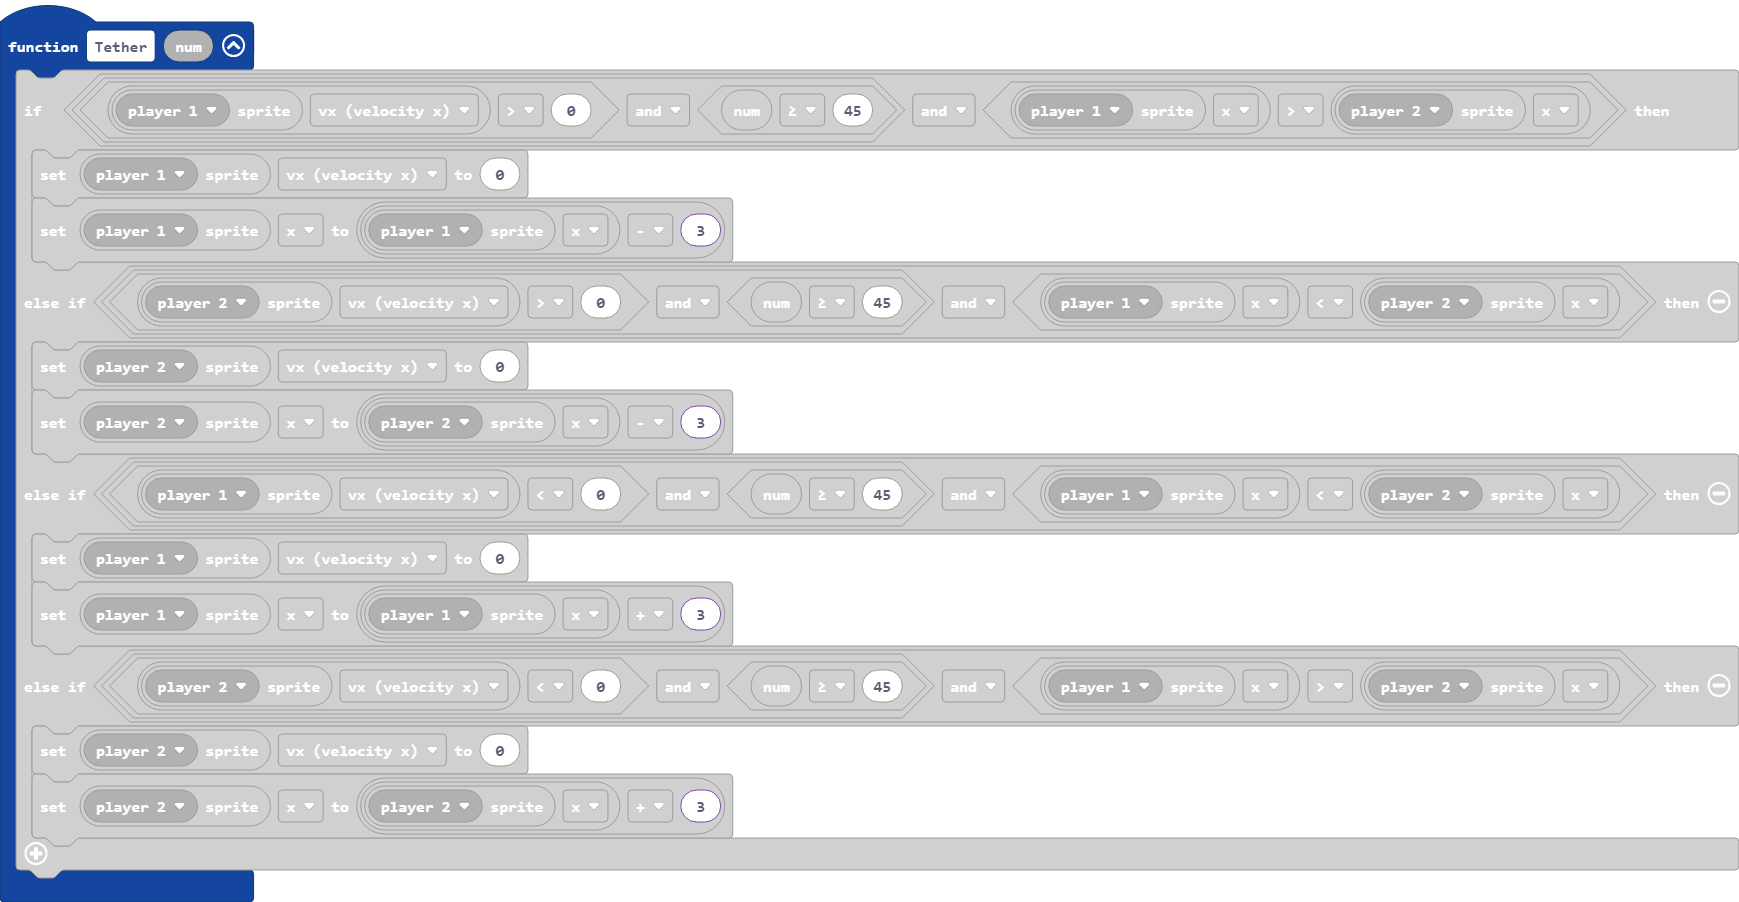
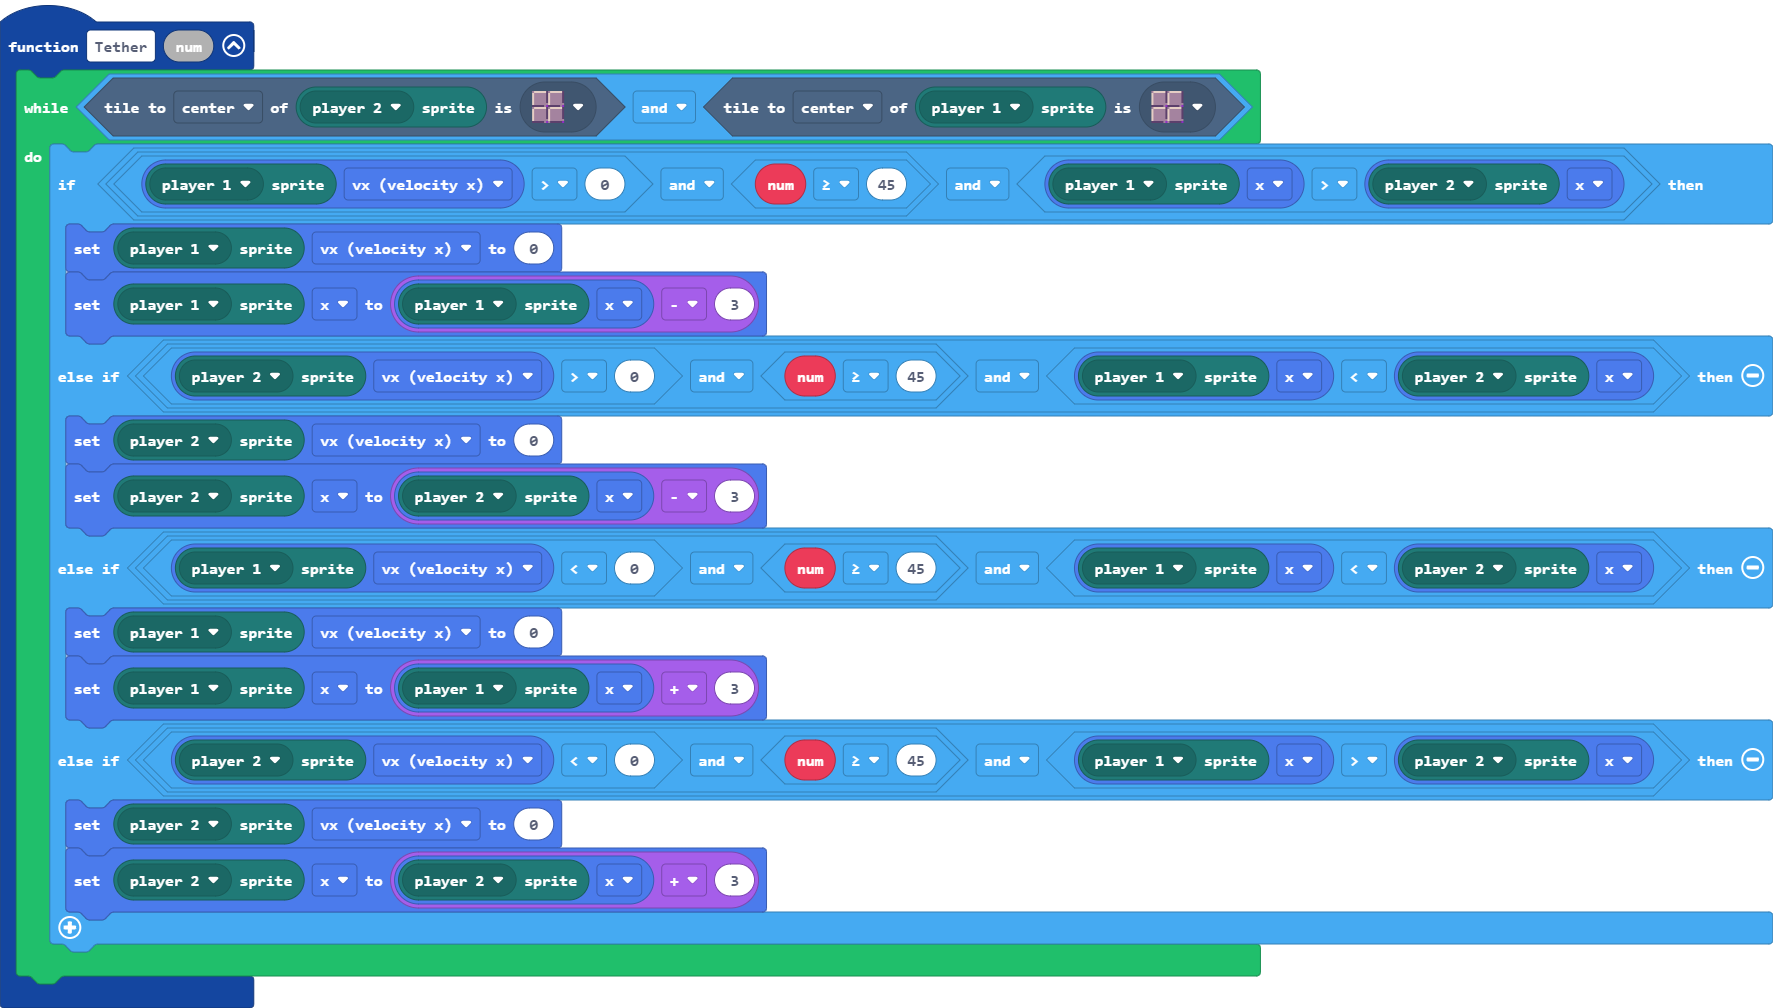
Update main.blocks, main.ts

diff --git a/main.ts b/main.ts
@@ -34,18 +34,20 @@ controller.player2.onButtonEvent(ControllerButton.Up, ControllerButtonEvent.Pres
     }
 })
 function Tether (num: number) {
-    if (mp.getPlayerSprite(mp.playerSelector(mp.PlayerNumber.One)).vx > 0 && num >= 45 && mp.getPlayerSprite(mp.playerSelector(mp.PlayerNumber.One)).x > mp.getPlayerSprite(mp.playerSelector(mp.PlayerNumber.Two)).x) {
-        mp.getPlayerSprite(mp.playerSelector(mp.PlayerNumber.One)).vx = 0
-        mp.getPlayerSprite(mp.playerSelector(mp.PlayerNumber.One)).x = mp.getPlayerSprite(mp.playerSelector(mp.PlayerNumber.One)).x - 3
-    } else if (mp.getPlayerSprite(mp.playerSelector(mp.PlayerNumber.Two)).vx > 0 && num >= 45 && mp.getPlayerSprite(mp.playerSelector(mp.PlayerNumber.One)).x < mp.getPlayerSprite(mp.playerSelector(mp.PlayerNumber.Two)).x) {
-        mp.getPlayerSprite(mp.playerSelector(mp.PlayerNumber.Two)).vx = 0
-        mp.getPlayerSprite(mp.playerSelector(mp.PlayerNumber.Two)).x = mp.getPlayerSprite(mp.playerSelector(mp.PlayerNumber.Two)).x - 3
-    } else if (mp.getPlayerSprite(mp.playerSelector(mp.PlayerNumber.One)).vx < 0 && num >= 45 && mp.getPlayerSprite(mp.playerSelector(mp.PlayerNumber.One)).x < mp.getPlayerSprite(mp.playerSelector(mp.PlayerNumber.Two)).x) {
-        mp.getPlayerSprite(mp.playerSelector(mp.PlayerNumber.One)).vx = 0
-        mp.getPlayerSprite(mp.playerSelector(mp.PlayerNumber.One)).x = mp.getPlayerSprite(mp.playerSelector(mp.PlayerNumber.One)).x + 3
-    } else if (mp.getPlayerSprite(mp.playerSelector(mp.PlayerNumber.Two)).vx < 0 && num >= 45 && mp.getPlayerSprite(mp.playerSelector(mp.PlayerNumber.One)).x > mp.getPlayerSprite(mp.playerSelector(mp.PlayerNumber.Two)).x) {
-        mp.getPlayerSprite(mp.playerSelector(mp.PlayerNumber.Two)).vx = 0
-        mp.getPlayerSprite(mp.playerSelector(mp.PlayerNumber.Two)).x = mp.getPlayerSprite(mp.playerSelector(mp.PlayerNumber.Two)).x + 3
+    while (mp.getPlayerSprite(mp.playerSelector(mp.PlayerNumber.Two)).tileKindAt(TileDirection.Center, sprites.dungeon.floorDark0) && mp.getPlayerSprite(mp.playerSelector(mp.PlayerNumber.One)).tileKindAt(TileDirection.Center, sprites.dungeon.floorDark0)) {
+        if (mp.getPlayerSprite(mp.playerSelector(mp.PlayerNumber.One)).vx > 0 && num >= 45 && mp.getPlayerSprite(mp.playerSelector(mp.PlayerNumber.One)).x > mp.getPlayerSprite(mp.playerSelector(mp.PlayerNumber.Two)).x) {
+            mp.getPlayerSprite(mp.playerSelector(mp.PlayerNumber.One)).vx = 0
+            mp.getPlayerSprite(mp.playerSelector(mp.PlayerNumber.One)).x = mp.getPlayerSprite(mp.playerSelector(mp.PlayerNumber.One)).x - 3
+        } else if (mp.getPlayerSprite(mp.playerSelector(mp.PlayerNumber.Two)).vx > 0 && num >= 45 && mp.getPlayerSprite(mp.playerSelector(mp.PlayerNumber.One)).x < mp.getPlayerSprite(mp.playerSelector(mp.PlayerNumber.Two)).x) {
+            mp.getPlayerSprite(mp.playerSelector(mp.PlayerNumber.Two)).vx = 0
+            mp.getPlayerSprite(mp.playerSelector(mp.PlayerNumber.Two)).x = mp.getPlayerSprite(mp.playerSelector(mp.PlayerNumber.Two)).x - 3
+        } else if (mp.getPlayerSprite(mp.playerSelector(mp.PlayerNumber.One)).vx < 0 && num >= 45 && mp.getPlayerSprite(mp.playerSelector(mp.PlayerNumber.One)).x < mp.getPlayerSprite(mp.playerSelector(mp.PlayerNumber.Two)).x) {
+            mp.getPlayerSprite(mp.playerSelector(mp.PlayerNumber.One)).vx = 0
+            mp.getPlayerSprite(mp.playerSelector(mp.PlayerNumber.One)).x = mp.getPlayerSprite(mp.playerSelector(mp.PlayerNumber.One)).x + 3
+        } else if (mp.getPlayerSprite(mp.playerSelector(mp.PlayerNumber.Two)).vx < 0 && num >= 45 && mp.getPlayerSprite(mp.playerSelector(mp.PlayerNumber.One)).x > mp.getPlayerSprite(mp.playerSelector(mp.PlayerNumber.Two)).x) {
+            mp.getPlayerSprite(mp.playerSelector(mp.PlayerNumber.Two)).vx = 0
+            mp.getPlayerSprite(mp.playerSelector(mp.PlayerNumber.Two)).x = mp.getPlayerSprite(mp.playerSelector(mp.PlayerNumber.Two)).x + 3
+        }
     }
 }
 sprites.onOverlap(SpriteKind.Player, SpriteKind.Player, function (sprite, otherSprite) {
